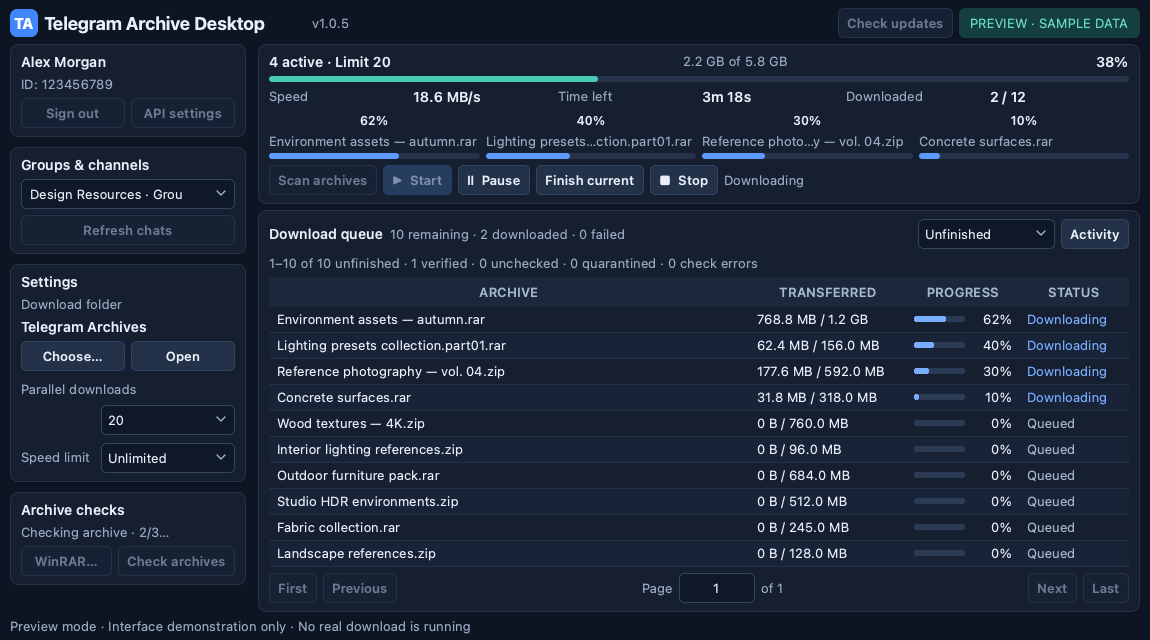
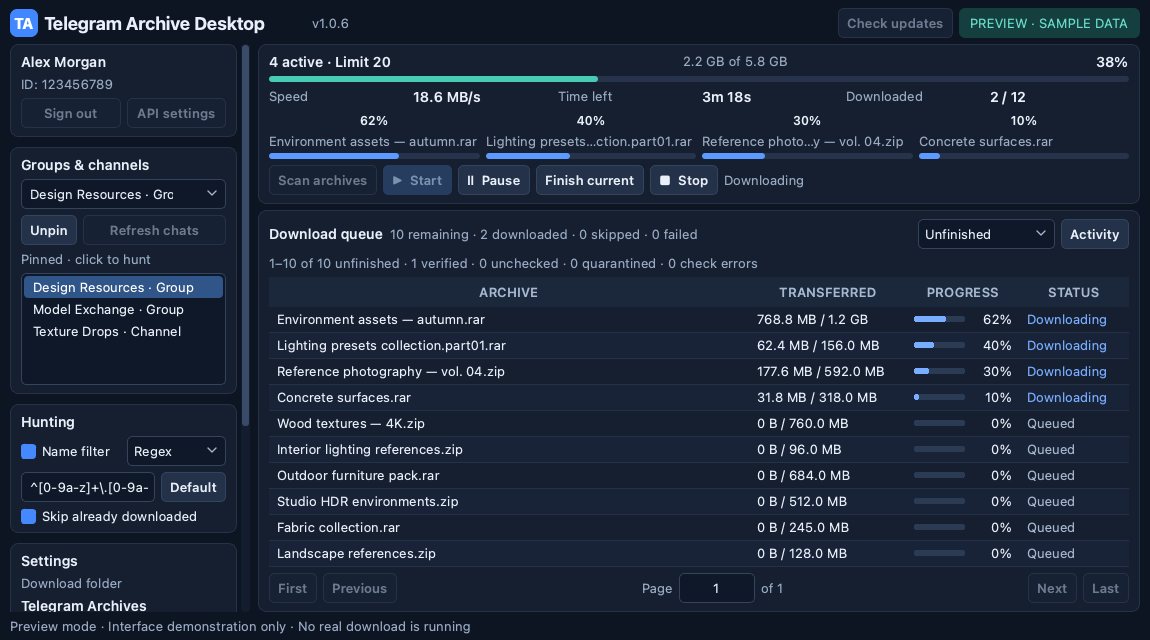
Release 1.0.6 with pinned-chat hunting and global download rules

Changed region(s): [[0.0, 0.0938, 0.2435, 0.9688], [0.5174, 0.3438, 0.6087, 0.375], [0.0304, 0.1562, 0.0913, 0.1875]]

diff --git a/tgzip/__init__.py b/tgzip/__init__.py
@@ -3,4 +3,4 @@
 # Resolve this standard-library lazy import before Qt loads its import hooks.
 # Python 3.15 otherwise exposes a lazy_import object to asyncio's default pool.
 from concurrent.futures import ThreadPoolExecutor as _ThreadPoolExecutor
-__version__ = "1.0.5"
+__version__ = "1.0.6"

diff --git a/docs/VALIDATION.md b/docs/VALIDATION.md
@@ -1,5 +1,13 @@
 # Validation and release limits
 
+## Patch release 1.0.6: pinned-chat hunting and global download rules — 22 October 2026
+
+Chats can be pinned to a scrollable list; one click scans the chat for new messages and downloads in the same operation. Global Hunting rules apply to all chats: a filename filter (enabled by default; Python regex `^[0-9a-z]+\.[0-9a-z]+\.(zip|rar)$` or case-insensitive text) and skipping archives already downloaded in any chat by name or Telegram document. Excluded archives move to a new `skipped` state with a reason and their own queue view, and return to the queue when rules are relaxed. All chats now share the download folder by default; **Folder per chat** restores subfolders, and only archives without downloaded data follow a changed layout. The sidebar scrolls; the pinned list stays visible at startup.
+
+Python **3.14.8** on macOS: **213 tests**, 205 passed and eight skipped (Windows DPAPI and seven launcher tests without a portable PowerShell). New coverage includes the default pattern, text mode and invalid regex handling; skipping by name, renamed Telegram document, and duplicates within one pass while quarantined copies stay downloadable; restoring skipped files after relaxing rules; live rule changes during a download; pinned-chat hunting from scan to download in a shared folder; pin persistence; relocation of unstarted files while partial files stay; and the sidebar controls, Skipped queue view and validation feedback. Existing download, archive-check and layout tests run with the new rules disabled where they test unrelated behavior; layout tests now expect a scrolling sidebar and reach lower controls by scrolling. Compilation, the environment probe and whitespace checks passed. Offscreen previews were inspected at 1150×640 (top and scrolled), 500×340, and the Settings window at 480×600 and 760×600; the documentation previews were refreshed to v1.0.6.
+
+On a disposable copy of the owner's marked queue, the default rules classified the 47,649 remaining jobs in 0.2 seconds: 958 do not match the name filter and 46,691 remain to download. The original database was not modified. Live Telegram hunting, real Windows rendering, and moving into a shared folder on the owner's drive were not exercised.
+
 ## Patch release 1.0.5: Telegram waits no longer fail downloads — 22 October 2026
 
 Telegram `FLOOD_PREMIUM_WAIT` responses (download throttling for non-Premium accounts) were not recognized because Telethon's `FloodPremiumWaitError` is not a `FloodWaitError` subclass; affected files were marked as failed immediately. Ordinary short `FLOOD_WAIT` responses also consumed the four per-file attempts, so parallel transfers could fail after a few one- to three-second waits. In a supplied queue copy, all 38 failed jobs had one of these two causes. Both waits are now honored for the requested duration without consuming connection retries; Activity labels the non-Premium limit separately, and Stop still cancels the wait. Network errors keep the existing limit of three retries. Previously failed jobs are retried by the next Start.
